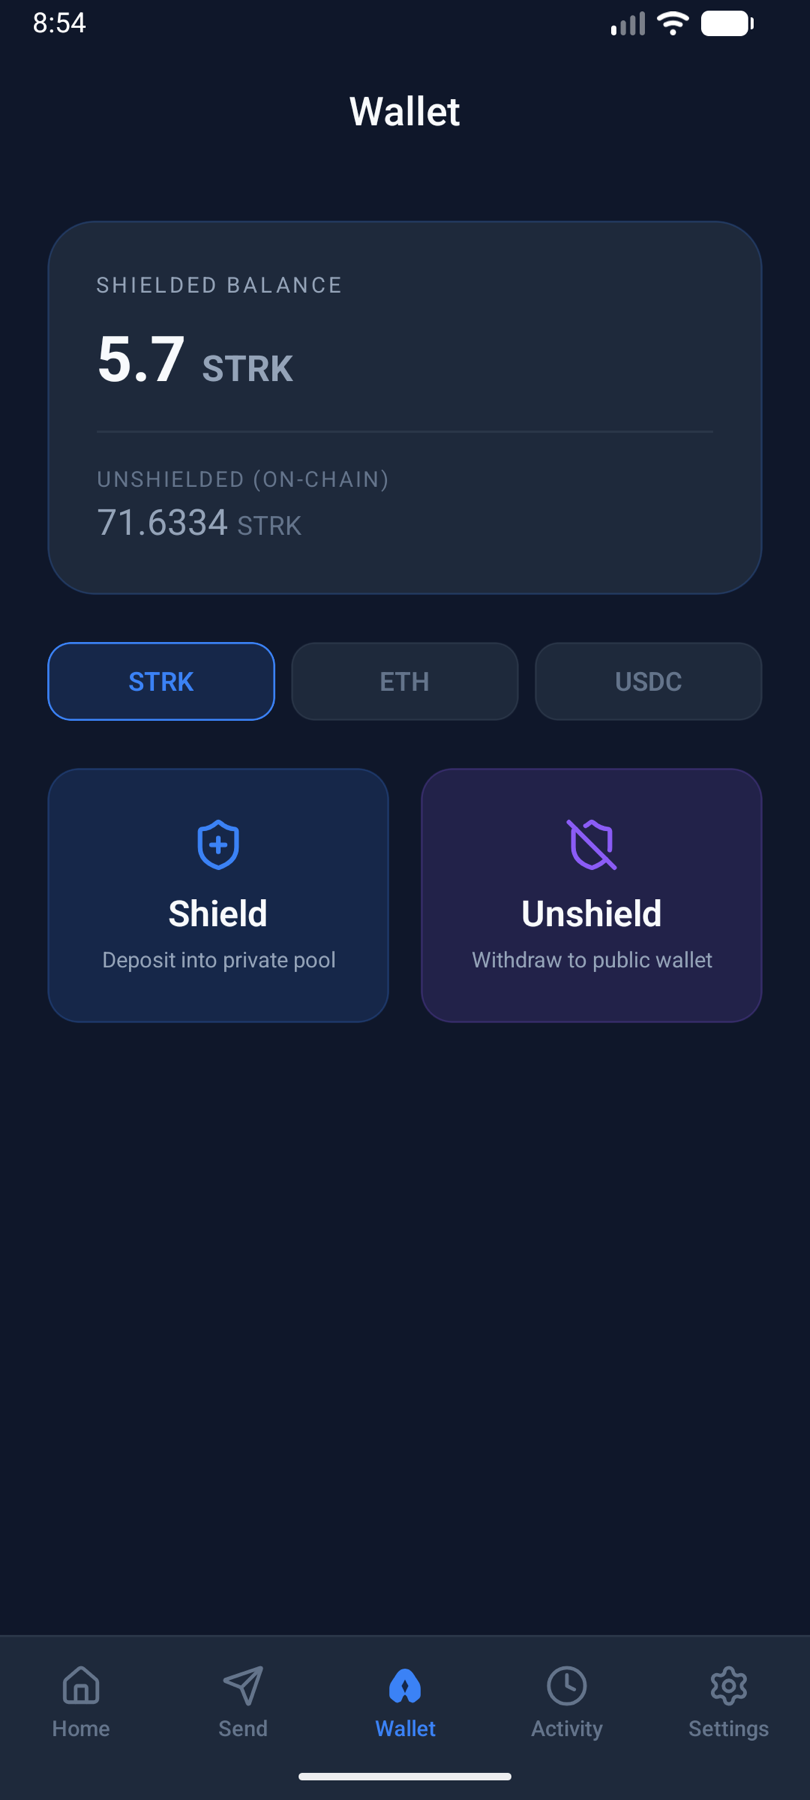
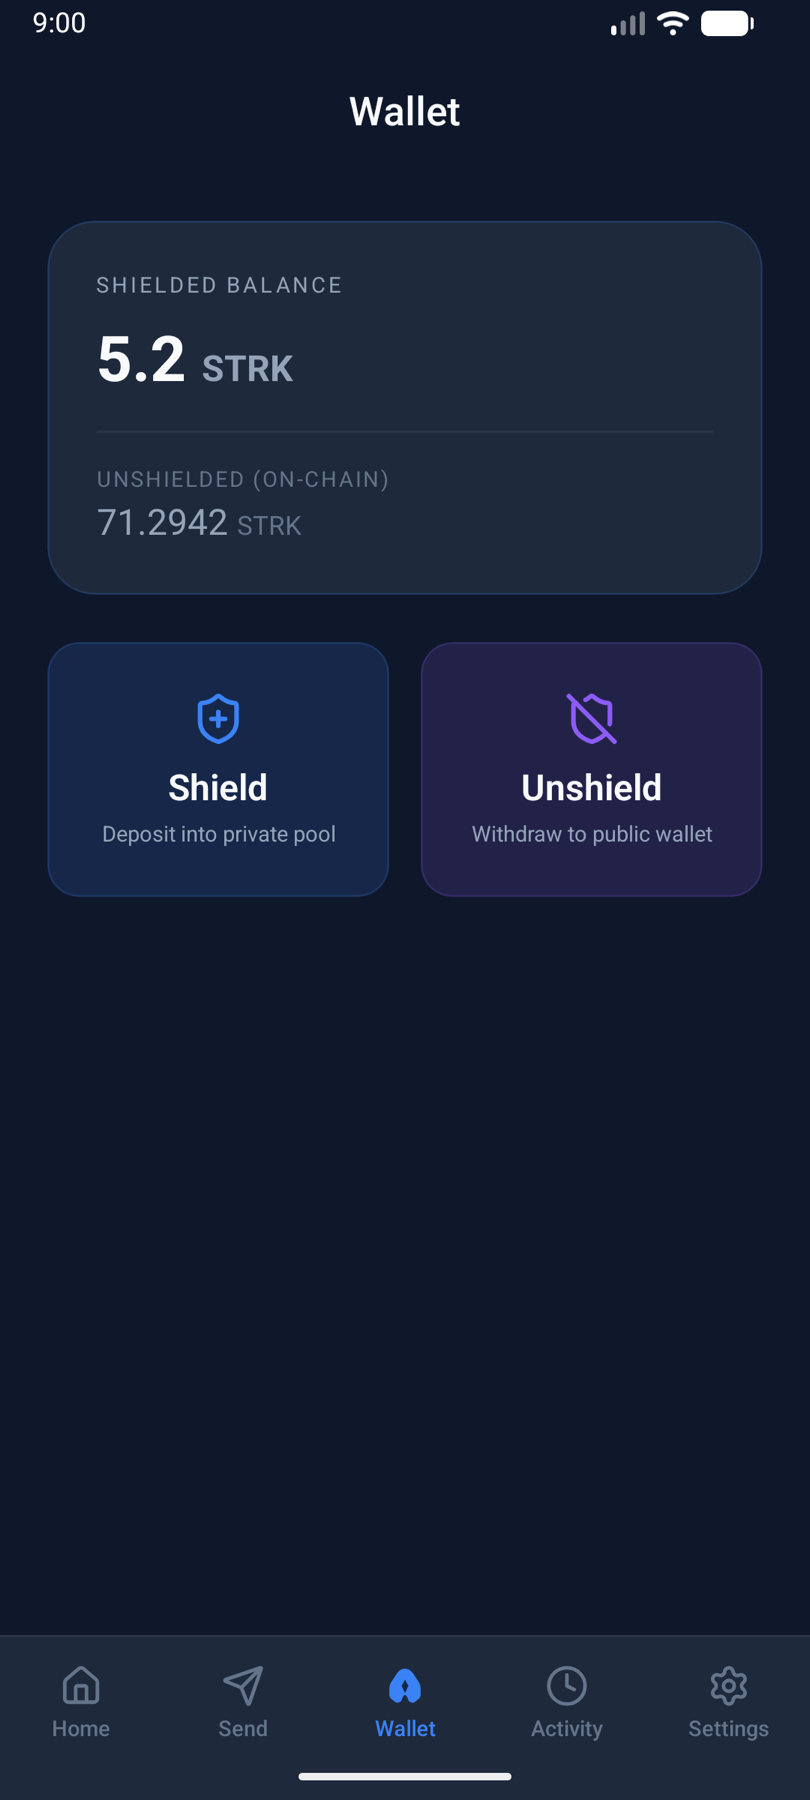
Remove ETH/USDC token tabs, focus on STRK only
- Remove token selector tabs from mobile WalletScreen
- Add hackathon note to README: STRK-only for now, multi-token supported
  architecturally but disabled in UI
- Update wallet screenshot

diff --git a/packages/mobile/src/screens/WalletScreen.tsx b/packages/mobile/src/screens/WalletScreen.tsx
@@ -122,29 +122,6 @@ export default function WalletScreen({ route }: any) {
           </View>
         </View>
 
-        {/* Token Tabs */}
-        <View style={styles.tokenRow}>
-          {(["STRK", "ETH", "USDC"] as const).map((token) => (
-            <TouchableOpacity
-              key={token}
-              style={[
-                styles.tokenTab,
-                wallet.selectedToken === token && styles.tokenTabActive,
-              ]}
-              onPress={() => wallet.setSelectedToken(token)}
-            >
-              <Text
-                style={[
-                  styles.tokenTabText,
-                  wallet.selectedToken === token && styles.tokenTabTextActive,
-                ]}
-              >
-                {token}
-              </Text>
-            </TouchableOpacity>
-          ))}
-        </View>
-
         {/* Action Buttons */}
         {!mode && (
           <View style={styles.actionRow}>
@@ -274,20 +251,6 @@ const styles = StyleSheet.create({
   },
   erc20Amount: { fontSize: fontSize.lg, color: colors.textSecondary, marginTop: 2 },
   erc20Symbol: { fontSize: fontSize.sm, color: colors.textMuted },
-
-  tokenRow: { flexDirection: "row", gap: spacing.sm, marginBottom: spacing.lg },
-  tokenTab: {
-    flex: 1,
-    paddingVertical: 10,
-    borderRadius: borderRadius.md,
-    backgroundColor: colors.surface,
-    alignItems: "center",
-    borderWidth: 1,
-    borderColor: colors.borderLight,
-  },
-  tokenTabActive: { backgroundColor: colors.primaryDim, borderColor: colors.primary },
-  tokenTabText: { fontSize: fontSize.sm, color: colors.textMuted, fontWeight: "600" },
-  tokenTabTextActive: { color: colors.primary },
 
   actionRow: { flexDirection: "row", gap: spacing.md },
   actionBtn: {

diff --git a/README.md b/README.md
@@ -157,6 +157,8 @@ Requires Node.js >= 22 and a Starknet wallet (ArgentX or Braavos) on Sepolia.
 
 Privacy Track. Core insight: Venmo already hides amounts from the social feed — Cloak makes this **cryptographic and on-chain**, not a UI choice.
 
+> **Note:** The current build focuses on **STRK** as the sole supported token. Multi-token support (ETH, USDC) is architecturally supported by the Tongo SDK but disabled in the UI to keep the hackathon demo focused and reliable.
+
 ## License
 
 Source Available — free for personal, educational, and non-commercial use. Commercial use requires a separate license. See [LICENSE](LICENSE) for details.
